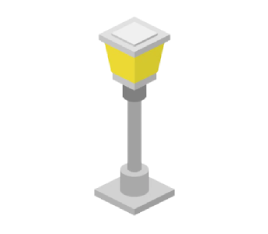
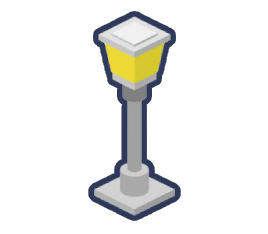
street lamp added

Changed region(s): [[0.3284, 0.0299, 0.6866, 0.9573]]

diff --git a/src/HonkTrooper/HonkTrooper/Pages/HonkBomberPage.xaml.cs b/src/HonkTrooper/HonkTrooper/Pages/HonkBomberPage.xaml.cs
@@ -683,7 +683,6 @@ namespace HonkTrooper
                 vehicle.IsAnimating = true;
                 vehicle.Reset();
                 vehicle.Reposition();
-                vehicle.SetZ(3);
 
                 return true;
             }
@@ -1145,42 +1144,42 @@ namespace HonkTrooper
 
         #endregion
 
-        #region RoadSideBillboard
+        #region RoadSideLamp
 
-        private bool SpawnRoadSideBillboards()
+        private bool SpawnRoadSideLamps()
         {
             for (int i = 0; i < 3; i++)
             {
-                RoadSideBillboard billboard = new(
-                    animateAction: AnimateRoadSideBillboard,
-                    recycleAction: RecycleRoadSideBillboard);
+                RoadSideLamp roadSideLamp = new(
+                    animateAction: AnimateRoadSideLamp,
+                    recycleAction: RecycleRoadSideLamp);
 
-                billboard.SetPosition(
+                roadSideLamp.SetPosition(
                     left: -3000,
                     top: -3000);
 
-                _scene_game.AddToScene(billboard);
+                _scene_game.AddToScene(roadSideLamp);
 
-                //SpawnDropShadow(source: tree);
+                SpawnDropShadow(source: roadSideLamp);
             }
 
             return true;
         }
 
-        private bool GenerateRoadSideBillboardTop()
+        private bool GenerateRoadSideLampTop()
         {
-            if (_scene_game.Children.OfType<RoadSideBillboard>().FirstOrDefault(x => x.IsAnimating == false) is RoadSideBillboard billboard)
+            if (_scene_game.Children.OfType<RoadSideLamp>().FirstOrDefault(x => x.IsAnimating == false) is RoadSideLamp roadSideLamp)
             {
-                billboard.IsAnimating = true;
+                roadSideLamp.IsAnimating = true;
 
-                billboard.SetPosition(
-                  left: (Constants.DEFAULT_SCENE_WIDTH / 1.8 - billboard.Width),
-                  top: (billboard.Height * 1.1) * -1,
-                  z: 1);
+                roadSideLamp.SetPosition(
+                  left: (Constants.DEFAULT_SCENE_WIDTH / 2.8 - roadSideLamp.Width),
+                  top: (roadSideLamp.Height * 1.3) * -1,
+                  z: 3);
 
-                //SyncDropShadow(tree);
+                SyncDropShadow(roadSideLamp);
 
-                LoggerExtensions.Log("RoadSideBillboard generated.");
+                LoggerExtensions.Log("RoadSideLamp generated.");
 
                 return true;
             }
@@ -1188,9 +1187,9 @@ namespace HonkTrooper
             return false;
         }
 
-        //private bool GenerateRoadSideBillboardBottom()
+        //private bool GenerateRoadSideLampBottom()
         //{
-        //    if (_scene_game.Children.OfType<RoadSideBillboard>().FirstOrDefault(x => x.IsAnimating == false) is RoadSideBillboard tree)
+        //    if (_scene_game.Children.OfType<RoadSideLamp>().FirstOrDefault(x => x.IsAnimating == false) is RoadSideLamp tree)
         //    {
         //        tree.IsAnimating = true;
 
@@ -1207,22 +1206,22 @@ namespace HonkTrooper
         //    return false;
         //}
 
-        private bool AnimateRoadSideBillboard(Construct billboard)
+        private bool AnimateRoadSideLamp(Construct roadSideLamp)
         {
-            var speed = (_scene_game.Speed + billboard.SpeedOffset);
-            MoveConstructBottomRight(construct: billboard, speed: speed);
+            var speed = (_scene_game.Speed + roadSideLamp.SpeedOffset);
+            MoveConstructBottomRight(construct: roadSideLamp, speed: speed);
             return true;
         }
 
-        private bool RecycleRoadSideBillboard(Construct billboard)
+        private bool RecycleRoadSideLamp(Construct roadSideLamp)
         {
-            var hitBox = billboard.GetHitBox();
+            var hitBox = roadSideLamp.GetHitBox();
 
             if (hitBox.Top > Constants.DEFAULT_SCENE_HEIGHT || hitBox.Left > Constants.DEFAULT_SCENE_WIDTH)
             {
-                billboard.IsAnimating = false;
+                roadSideLamp.IsAnimating = false;
 
-                billboard.SetPosition(
+                roadSideLamp.SetPosition(
                     left: -3000,
                     top: -3000);
             }
@@ -3183,8 +3182,8 @@ namespace HonkTrooper
 
                   new Generator(
                    generationDelay: 30 * 3,
-                   generationAction: GenerateRoadSideBillboardTop,
-                   startUpAction: SpawnRoadSideBillboards),
+                   generationAction: GenerateRoadSideLampTop,
+                   startUpAction: SpawnRoadSideLamps),
 
                 // add road side patches
                 new Generator(

diff --git a/src/HonkTrooper/HonkTrooper/Constants.cs b/src/HonkTrooper/HonkTrooper/Constants.cs
@@ -48,9 +48,8 @@ namespace HonkTrooper
             new (ConstructType.ROAD_SIDE_HEDGE, 160, 160),
 
             new (ConstructType.ROAD_SIDE_PATCH, 100, 300),
-            new (ConstructType.ROAD_SIDE_STRIPE, 15, 300),
-            //new (ConstructType.ROAD_SIDE_BILLBOARD, 350, 350),
-            new (ConstructType.ROAD_SIDE_BILLBOARD, 150, 150),
+            new (ConstructType.ROAD_SIDE_STRIPE, 15, 300),            
+            new (ConstructType.ROAD_SIDE_LAMP, 150, 150),
 
             new (ConstructType.DROP_SHADOW, 60, 25),
 
@@ -68,7 +67,7 @@ namespace HonkTrooper
             new (ConstructType.ROAD_SIDE_TREE, new Uri("ms-appx:///HonkTrooper/Assets/Images/tree_3.png")),
             new (ConstructType.ROAD_SIDE_TREE, new Uri("ms-appx:///HonkTrooper/Assets/Images/tree_4.png")),
 
-            new (ConstructType.ROAD_SIDE_BILLBOARD, new Uri("ms-appx:///HonkTrooper/Assets/Images/street_lamp_1.png")),
+            new (ConstructType.ROAD_SIDE_LAMP, new Uri("ms-appx:///HonkTrooper/Assets/Images/street_lamp_1.png")),
 
             new (ConstructType.ROAD_SIDE_HEDGE, new Uri("ms-appx:///HonkTrooper/Assets/Images/hedge_1.png")),            
 
@@ -247,7 +246,7 @@ namespace HonkTrooper
 
         ROAD_SIDE_TREE,
         ROAD_SIDE_HEDGE,
-        ROAD_SIDE_BILLBOARD,
+        ROAD_SIDE_LAMP,
 
         HONK,
 

diff --git a/src/HonkTrooper/HonkTrooper/Constructs/RoadSideLamp.cs b/src/HonkTrooper/HonkTrooper/Constructs/RoadSideLamp.cs
@@ -5,7 +5,7 @@ using System.Linq;
 
 namespace HonkTrooper
 {
-    public partial class RoadSideBillboard : Construct
+    public partial class RoadSideLamp : Construct
     {
         #region Fields
 
@@ -16,15 +16,15 @@ namespace HonkTrooper
 
         #region Ctor
 
-        public RoadSideBillboard(
+        public RoadSideLamp(
             Func<Construct, bool> animateAction,
             Func<Construct, bool> recycleAction)
         {
-            ConstructType = ConstructType.ROAD_SIDE_BILLBOARD;
+            ConstructType = ConstructType.ROAD_SIDE_LAMP;
 
-            _tree_uris = Constants.CONSTRUCT_TEMPLATES.Where(x => x.ConstructType == ConstructType.ROAD_SIDE_BILLBOARD).Select(x => x.Uri).ToArray();
+            _tree_uris = Constants.CONSTRUCT_TEMPLATES.Where(x => x.ConstructType == ConstructType.ROAD_SIDE_LAMP).Select(x => x.Uri).ToArray();
 
-            var size = Constants.CONSTRUCT_SIZES.FirstOrDefault(x => x.ConstructType == ConstructType.ROAD_SIDE_BILLBOARD);
+            var size = Constants.CONSTRUCT_SIZES.FirstOrDefault(x => x.ConstructType == ConstructType.ROAD_SIDE_LAMP);
 
             var width = size.Width;
             var height = size.Height;

diff --git a/src/HonkTrooper/HonkTrooper/Constructs/Vehicle.cs b/src/HonkTrooper/HonkTrooper/Constructs/Vehicle.cs
@@ -133,7 +133,8 @@ namespace HonkTrooper
 
                         SetPosition(
                             left: lane == 0 ? 0 : (xLaneWidth - Width / 2),
-                            top: Height * -1);
+                            top: Height * -1,
+                            z: 3);
                     }
                     break;
                 case 1:
@@ -142,7 +143,8 @@ namespace HonkTrooper
 
                         SetPosition(
                             left: Width * -1,
-                            top: lane == 0 ? 0 : (yLaneHeight));
+                            top: lane == 0 ? 0 : (yLaneHeight),
+                            z: 3);
                     }
                     break;
                 default:
